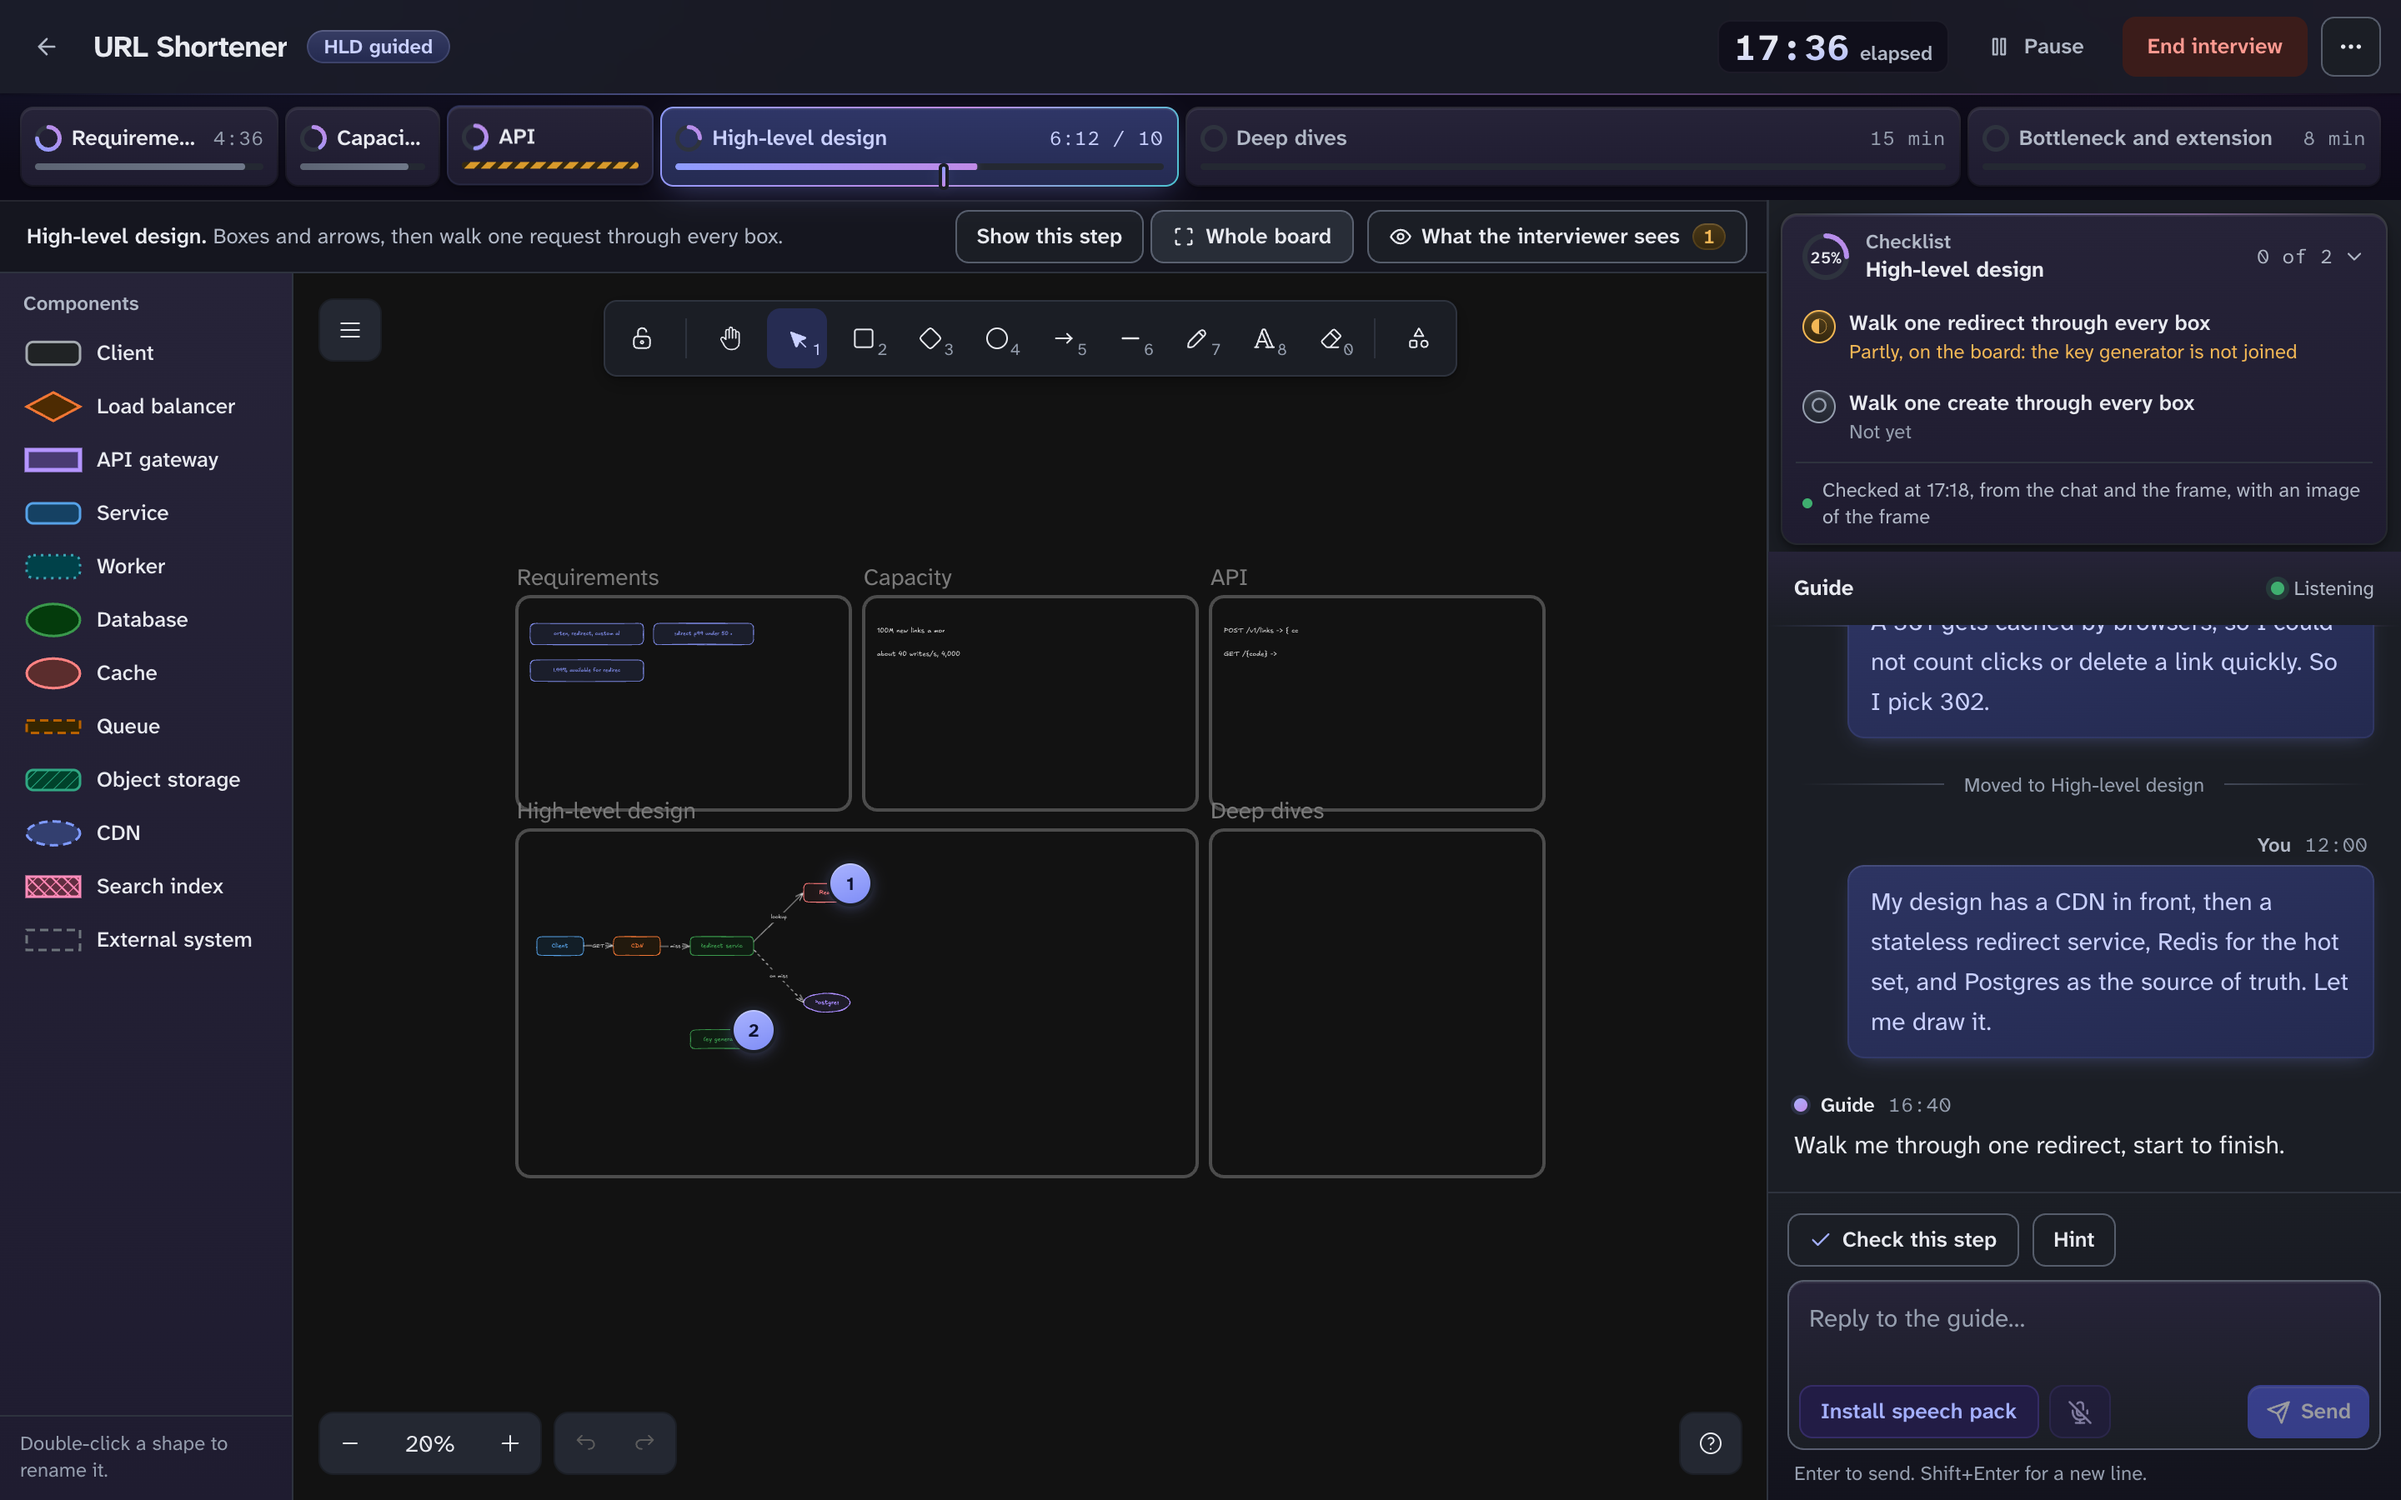
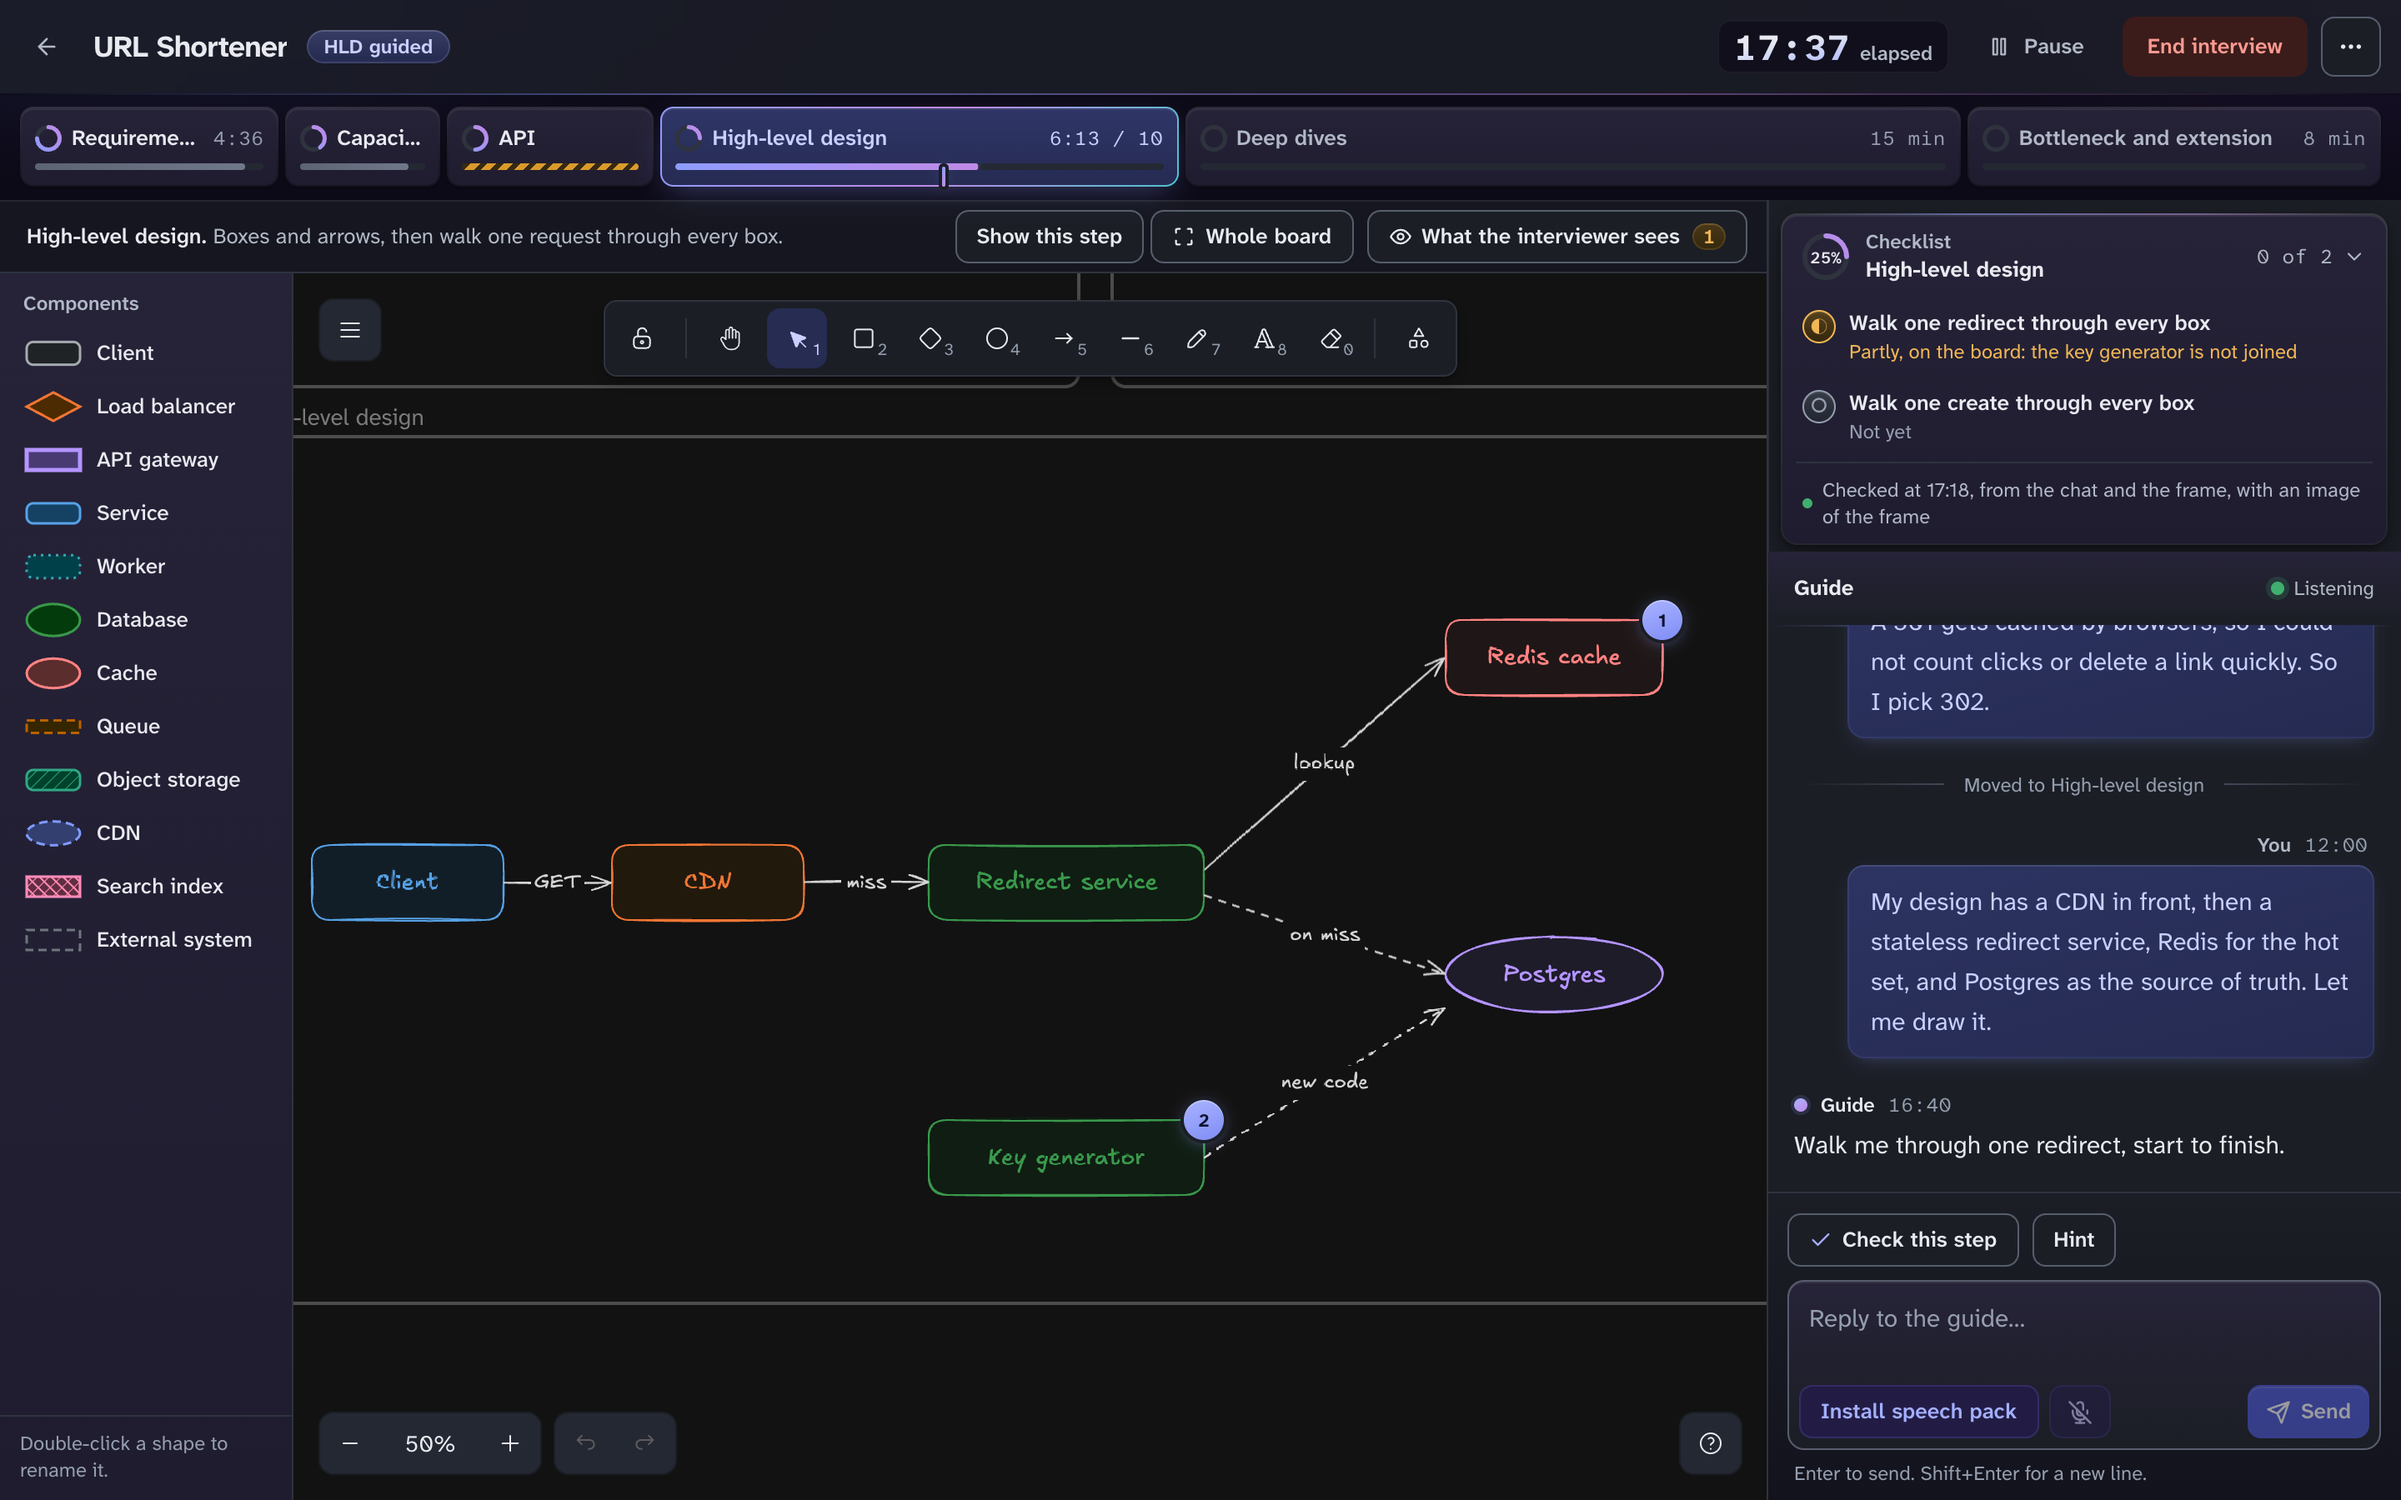
docs: show a readable design frame in the screenshots

diff --git a/src/web/fixtures/board.ts b/src/web/fixtures/board.ts
@@ -5,10 +5,18 @@ type Skeleton = Parameters<typeof convertToExcalidrawElements>[0];
 
 function build(skeleton: unknown[]): Record<string, unknown>[] {
   // Pins and step frames name elements by id, so the ids written here must survive the conversion.
-  return convertToExcalidrawElements(skeleton as Skeleton, { regenerateIds: false }) as unknown as Record<string, unknown>[];
+  const elements = convertToExcalidrawElements(skeleton as Skeleton, { regenerateIds: false }) as unknown as Record<string, unknown>[];
+  // The hand-drawn font loads after the scene is built, so the measured label widths come out a little short and the last
+  // letter gets clipped. Widening each label around its centre leaves the layout unchanged.
+  return elements.map((el) => {
+    if (el.type !== "text" || typeof el.width !== "number" || typeof el.x !== "number") return el;
+    const width = Math.ceil(el.width * 1.14);
+    return { ...el, width, x: el.x - (width - el.width) / 2 };
+  });
 }
 
-function box(id: string, x: number, y: number, text: string, kind: string, extra: Record<string, unknown> = {}) {
+function box(id: string, x: number, y: number, text: string, kind: string, options: Record<string, unknown> = {}) {
+  const { labelSize, ...extra } = options;
   return {
     type: "rectangle",
     id,
@@ -20,13 +28,18 @@ function box(id: string, x: number, y: number, text: string, kind: string, extra
     fillStyle: "solid",
     strokeColor: "#1971c2",
     roundness: { type: 3 },
-    label: { text, fontSize: 18 },
+    label: { text, fontSize: labelSize ?? 18 },
     customData: { kind },
     ...extra,
   };
 }
 
-function link(from: string, to: string, x: number, y: number, width: number, height: number, text: string, dashed = false) {
+/** Larger boxes and type for the design frame, so the diagram stays readable when the frame fills the canvas. */
+function big(width: number, extra: Record<string, unknown> = {}) {
+  return { width, height: 90, labelSize: 28, ...extra };
+}
+
+function link(from: string, to: string, x: number, y: number, width: number, height: number, text: string, dashed = false, fontSize = 16) {
   return {
     type: "arrow",
     x,
@@ -36,7 +49,7 @@ function link(from: string, to: string, x: number, y: number, width: number, hei
     start: { id: from },
     end: { id: to },
     strokeStyle: dashed ? "dashed" : "solid",
-    label: { text, fontSize: 16 },
+    label: { text, fontSize },
   };
 }
 
@@ -89,16 +102,17 @@ export function hldBoard(): Record<string, unknown>[] {
       free("cap-rate", 1120, 200, "about 40 writes/s, 4,000 reads/s"),
       free("api-create", 2160, 130, "POST /v1/links -> { code }"),
       free("api-redirect", 2160, 200, "GET /{code} -> 302"),
-      box("client", 100, 1060, "Client", "client"),
-      box("cdn", 330, 1060, "CDN", "cdn", { backgroundColor: "#fff4e6", strokeColor: "#e8590c" }),
-      box("redirect", 560, 1060, "Redirect service", "service", { backgroundColor: "#ebfbee", strokeColor: "#2f9e44", width: 190 }),
-      box("redis", 900, 900, "Redis", "cache", { backgroundColor: "#fff5f5", strokeColor: "#e03131" }),
-      { ...box("pg", 900, 1230, "Postgres", "database", { backgroundColor: "#f3f0ff", strokeColor: "#6741d9" }), type: "ellipse" },
-      box("keygen", 560, 1340, "Key generator", "service", { backgroundColor: "#ebfbee", strokeColor: "#2f9e44", width: 190 }),
-      link("client", "cdn", 240, 1088, 90, 0, "GET"),
-      link("cdn", "redirect", 470, 1088, 90, 0, "miss"),
-      link("redirect", "redis", 750, 1075, 150, -147, "lookup"),
-      link("redirect", "pg", 750, 1100, 150, 158, "on miss", true),
+      box("client", 120, 1230, "Client", "client", big(230)),
+      box("cdn", 480, 1230, "CDN", "cdn", big(230, { backgroundColor: "#fff4e6", strokeColor: "#e8590c" })),
+      box("redirect", 860, 1230, "Redirect service", "service", big(330, { backgroundColor: "#ebfbee", strokeColor: "#2f9e44" })),
+      box("redis", 1480, 960, "Redis cache", "cache", big(260, { backgroundColor: "#fff5f5", strokeColor: "#e03131" })),
+      { ...box("pg", 1480, 1340, "Postgres", "database", big(260, { backgroundColor: "#f3f0ff", strokeColor: "#6741d9" })), type: "ellipse" },
+      box("keygen", 860, 1560, "Key generator", "service", big(330, { backgroundColor: "#ebfbee", strokeColor: "#2f9e44" })),
+      link("client", "cdn", 350, 1275, 130, 0, "GET", false, 24),
+      link("cdn", "redirect", 710, 1275, 150, 0, "miss", false, 24),
+      link("redirect", "redis", 1190, 1260, 290, -255, "lookup", false, 24),
+      link("redirect", "pg", 1190, 1290, 290, 95, "on miss", true, 24),
+      link("keygen", "pg", 1190, 1605, 290, -180, "new code", true, 24),
     ],
     {
       requirements: ["req-scope", "req-latency", "req-avail"],

diff --git a/src/web/fixtures/mount.tsx b/src/web/fixtures/mount.tsx
@@ -48,6 +48,7 @@ export async function mountFixture(root: Root, name: string, params: URLSearchPa
             openSettings={params.get("settings") === "1"}
             preparing={params.get("preparing") === "1"}
             noUnfinished={params.get("unfinished") === "0"}
+            fakeAgent={params.get("testmode") !== "0"}
           />
         </AppProviders>
       </StrictMode>,
@@ -82,6 +83,9 @@ export async function mountFixture(root: Root, name: string, params: URLSearchPa
   const offline = params.get("offline") === "1";
   const timeUp = params.get("timeup") === "1";
   const legacy = (session: PublicSession) => (params.get("legacy") === "1" ? withLegacyNotes(session) : session);
+  // The board converter measures label text when it builds the scene, so the hand-drawn font must be ready first or the
+  // labels come out too narrow and get clipped.
+  await document.fonts.load("28px Excalifont", "Redirect service Postgres Key generator").catch(() => undefined);
   const hldImage = board.boardImageDataUrl("hld");
   const lldImage = board.boardImageDataUrl("lld");
 
@@ -145,11 +149,13 @@ function FixtureHome({
   openSettings,
   preparing,
   noUnfinished,
+  fakeAgent,
 }: {
   theme: Theme;
   openSettings: boolean;
   preparing: boolean;
   noUnfinished?: boolean;
+  fakeAgent: boolean;
 }) {
   const [open, setOpen] = useState(openSettings);
   const [settings, setSettings] = useState(fixtureSettings(theme));
@@ -173,7 +179,7 @@ function FixtureHome({
           onRetry={() => {}}
           starting={starting}
           startError={null}
-          fakeAgent={fixtureBootstrap.fakeAgent}
+          fakeAgent={fakeAgent}
           onOpenSettings={() => setOpen(true)}
           onStart={(id, mode) => pretendToStart(`${id}:${mode}`)}
           onStartCustom={(_prompt, _track, mode) => pretendToStart(`custom:${mode}`)}
